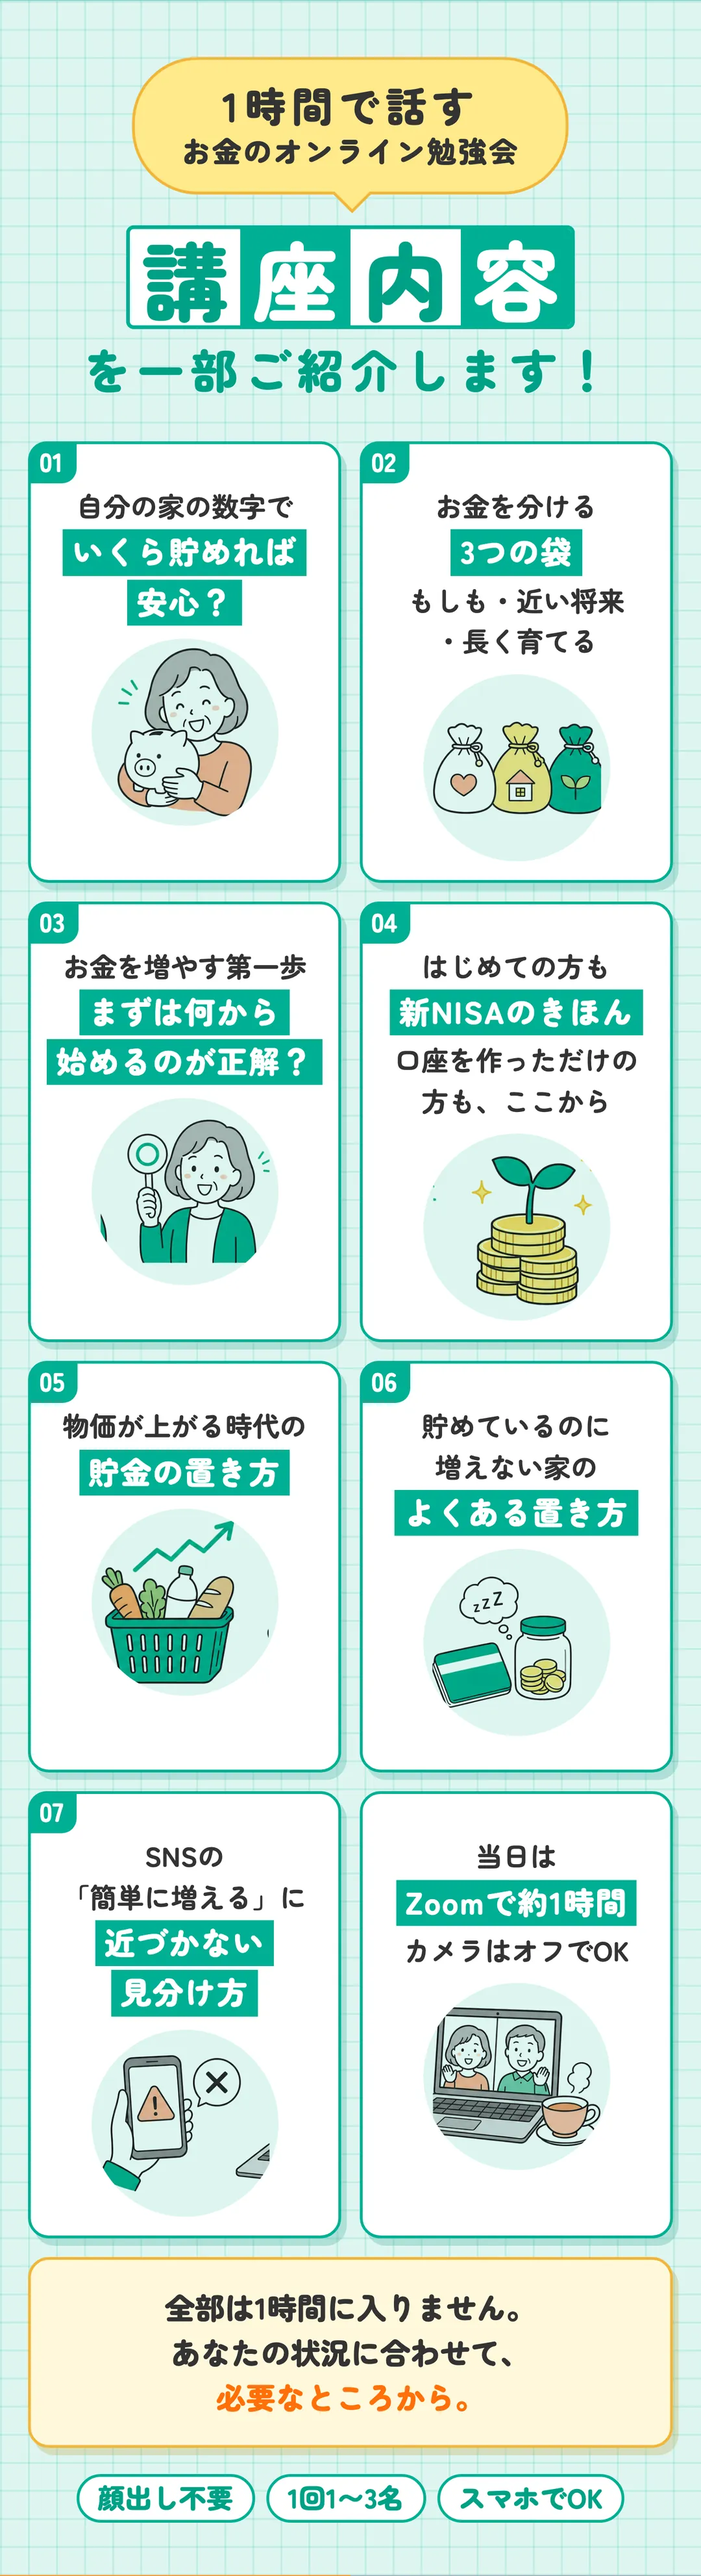
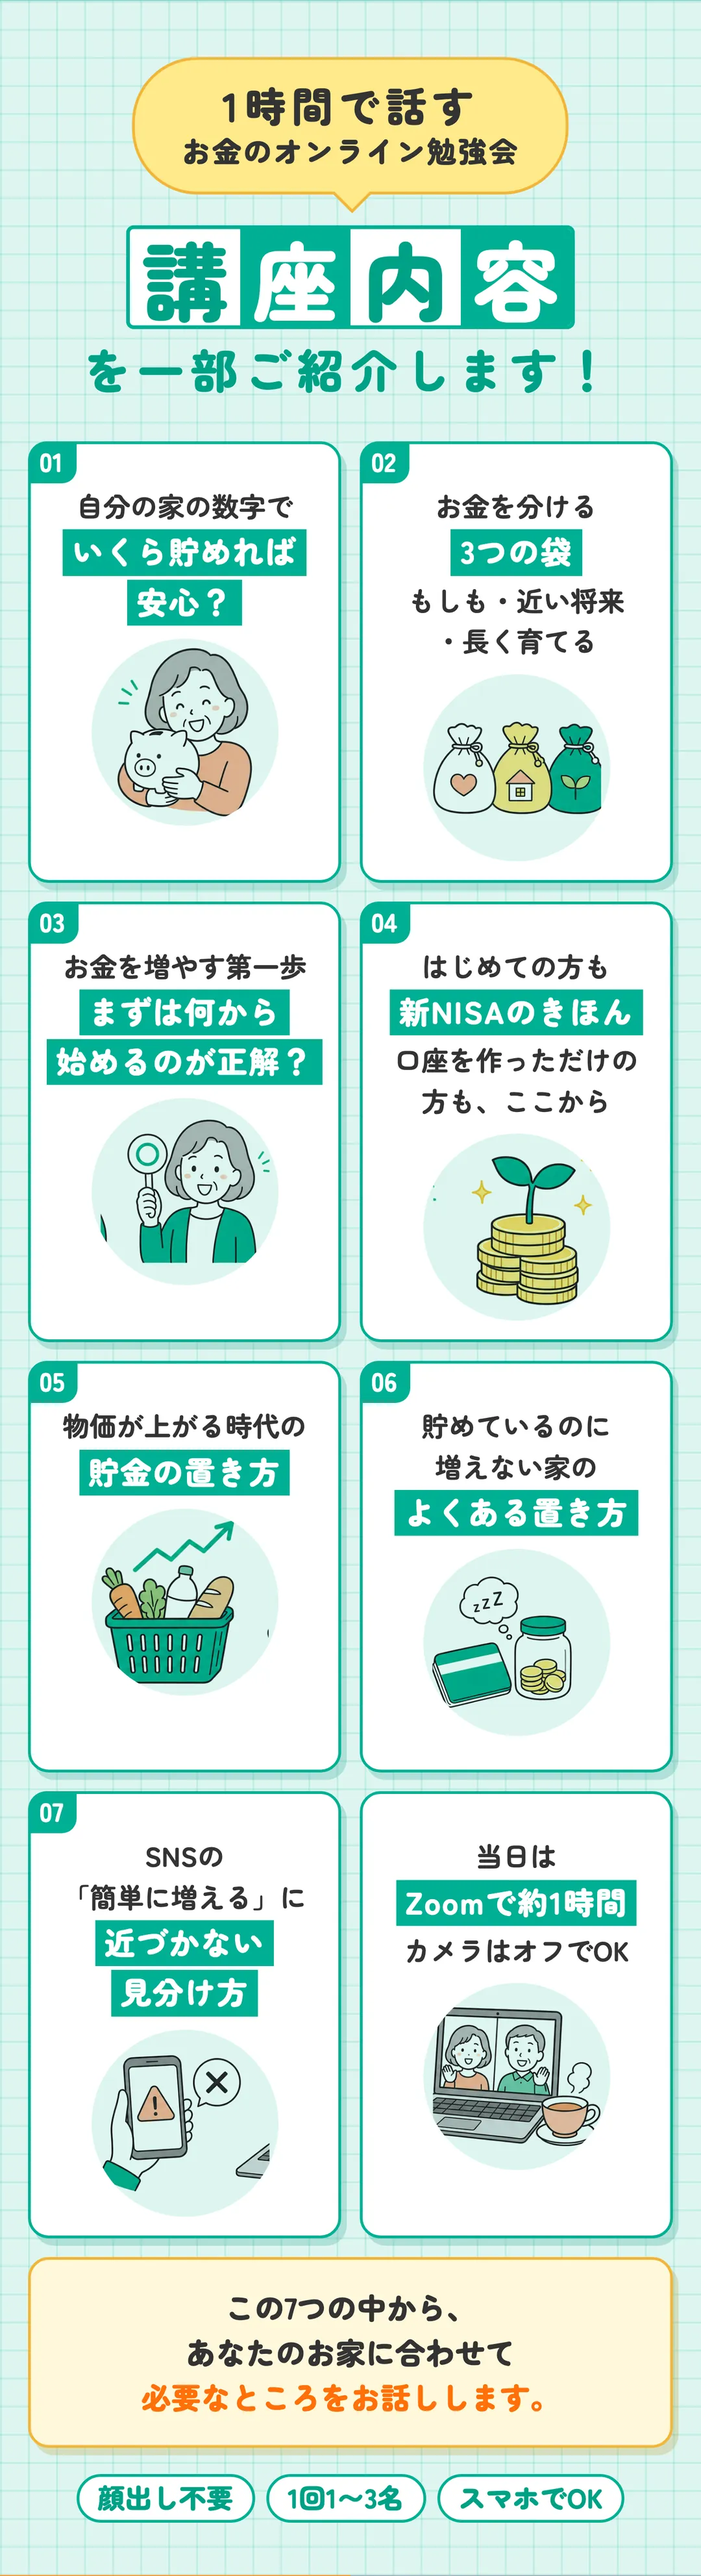
lp-old: 講座内容の締めの一文を分かりやすく

Changed region(s): [[0.2139, 0.8684, 0.7333, 0.9614]]

diff --git a/lp-old/index.html b/lp-old/index.html
@@ -84,7 +84,7 @@ footer p{margin:0}
   <a class="btn js-line" href="https://utage-system.com/line/open/X4Z2lketpu30?mtid=Us2bWvI6KlNU"><span class="pill">無料・顔出し不要・1回1〜3名</span><span class="main">LINEで日程を受け取る</span><span class="sub">お一人でも、ご家族でも</span><span class="arr"></span></a>
   <p class="howto">LINEが開いたら<b>「追加」</b>を押すだけ。<br>すぐに日程が届きます。</p>
 </div>
-<img class="s" src="img/14_kouza.webp" width="1080" height="3966" loading="lazy" decoding="async" alt="1時間で話すお金のオンライン勉強会／講座内容を一部ご紹介します！／01自分の家の数字でいくら貯めれば安心？／02お金を分ける3つの袋もしも・近い将来・長く育てる／03お金を増やす第一歩まずは何から始めるのが正解？／04はじめての方も新NISAのきほん口座を作っただけの方も、ここから／05物価が上がる時代の貯金の置き方／06貯めているのに増えない家のよくある置き方／07SNSの「簡単に増える」に近づかない見分け方／当日はZoomで約1時間カメラはオフでOK／全部は1時間に入りません。あなたの状況に合わせて、必要なところから。／顔出し不要1回1〜3名スマホでOK">
+<img class="s" src="img/14_kouza.webp" width="1080" height="3966" loading="lazy" decoding="async" alt="1時間で話すお金のオンライン勉強会／講座内容を一部ご紹介します！／01自分の家の数字でいくら貯めれば安心？／02お金を分ける3つの袋もしも・近い将来・長く育てる／03お金を増やす第一歩まずは何から始めるのが正解？／04はじめての方も新NISAのきほん口座を作っただけの方も、ここから／05物価が上がる時代の貯金の置き方／06貯めているのに増えない家のよくある置き方／07SNSの「簡単に増える」に近づかない見分け方／当日はZoomで約1時間カメラはオフでOK／この7つの中から、あなたのお家に合わせて必要なところをお話しします。／顔出し不要1回1〜3名スマホでOK">
 <div class="cta wb" id="cta4"><p class="band">家族何人でも無料！お一人様も大歓迎</p>
   <i class="coin c1"></i><i class="coin c2"></i><i class="coin c3"></i><i class="coin c4"></i>
   <a class="btn js-line" href="https://utage-system.com/line/open/X4Z2lketpu30?mtid=Us2bWvI6KlNU"><span class="pill">無料・Zoom・1時間</span><span class="main">LINEで日程を受け取る</span><span class="sub">顔出し不要・1回1〜3名・スマホでOK</span><span class="arr"></span></a>
